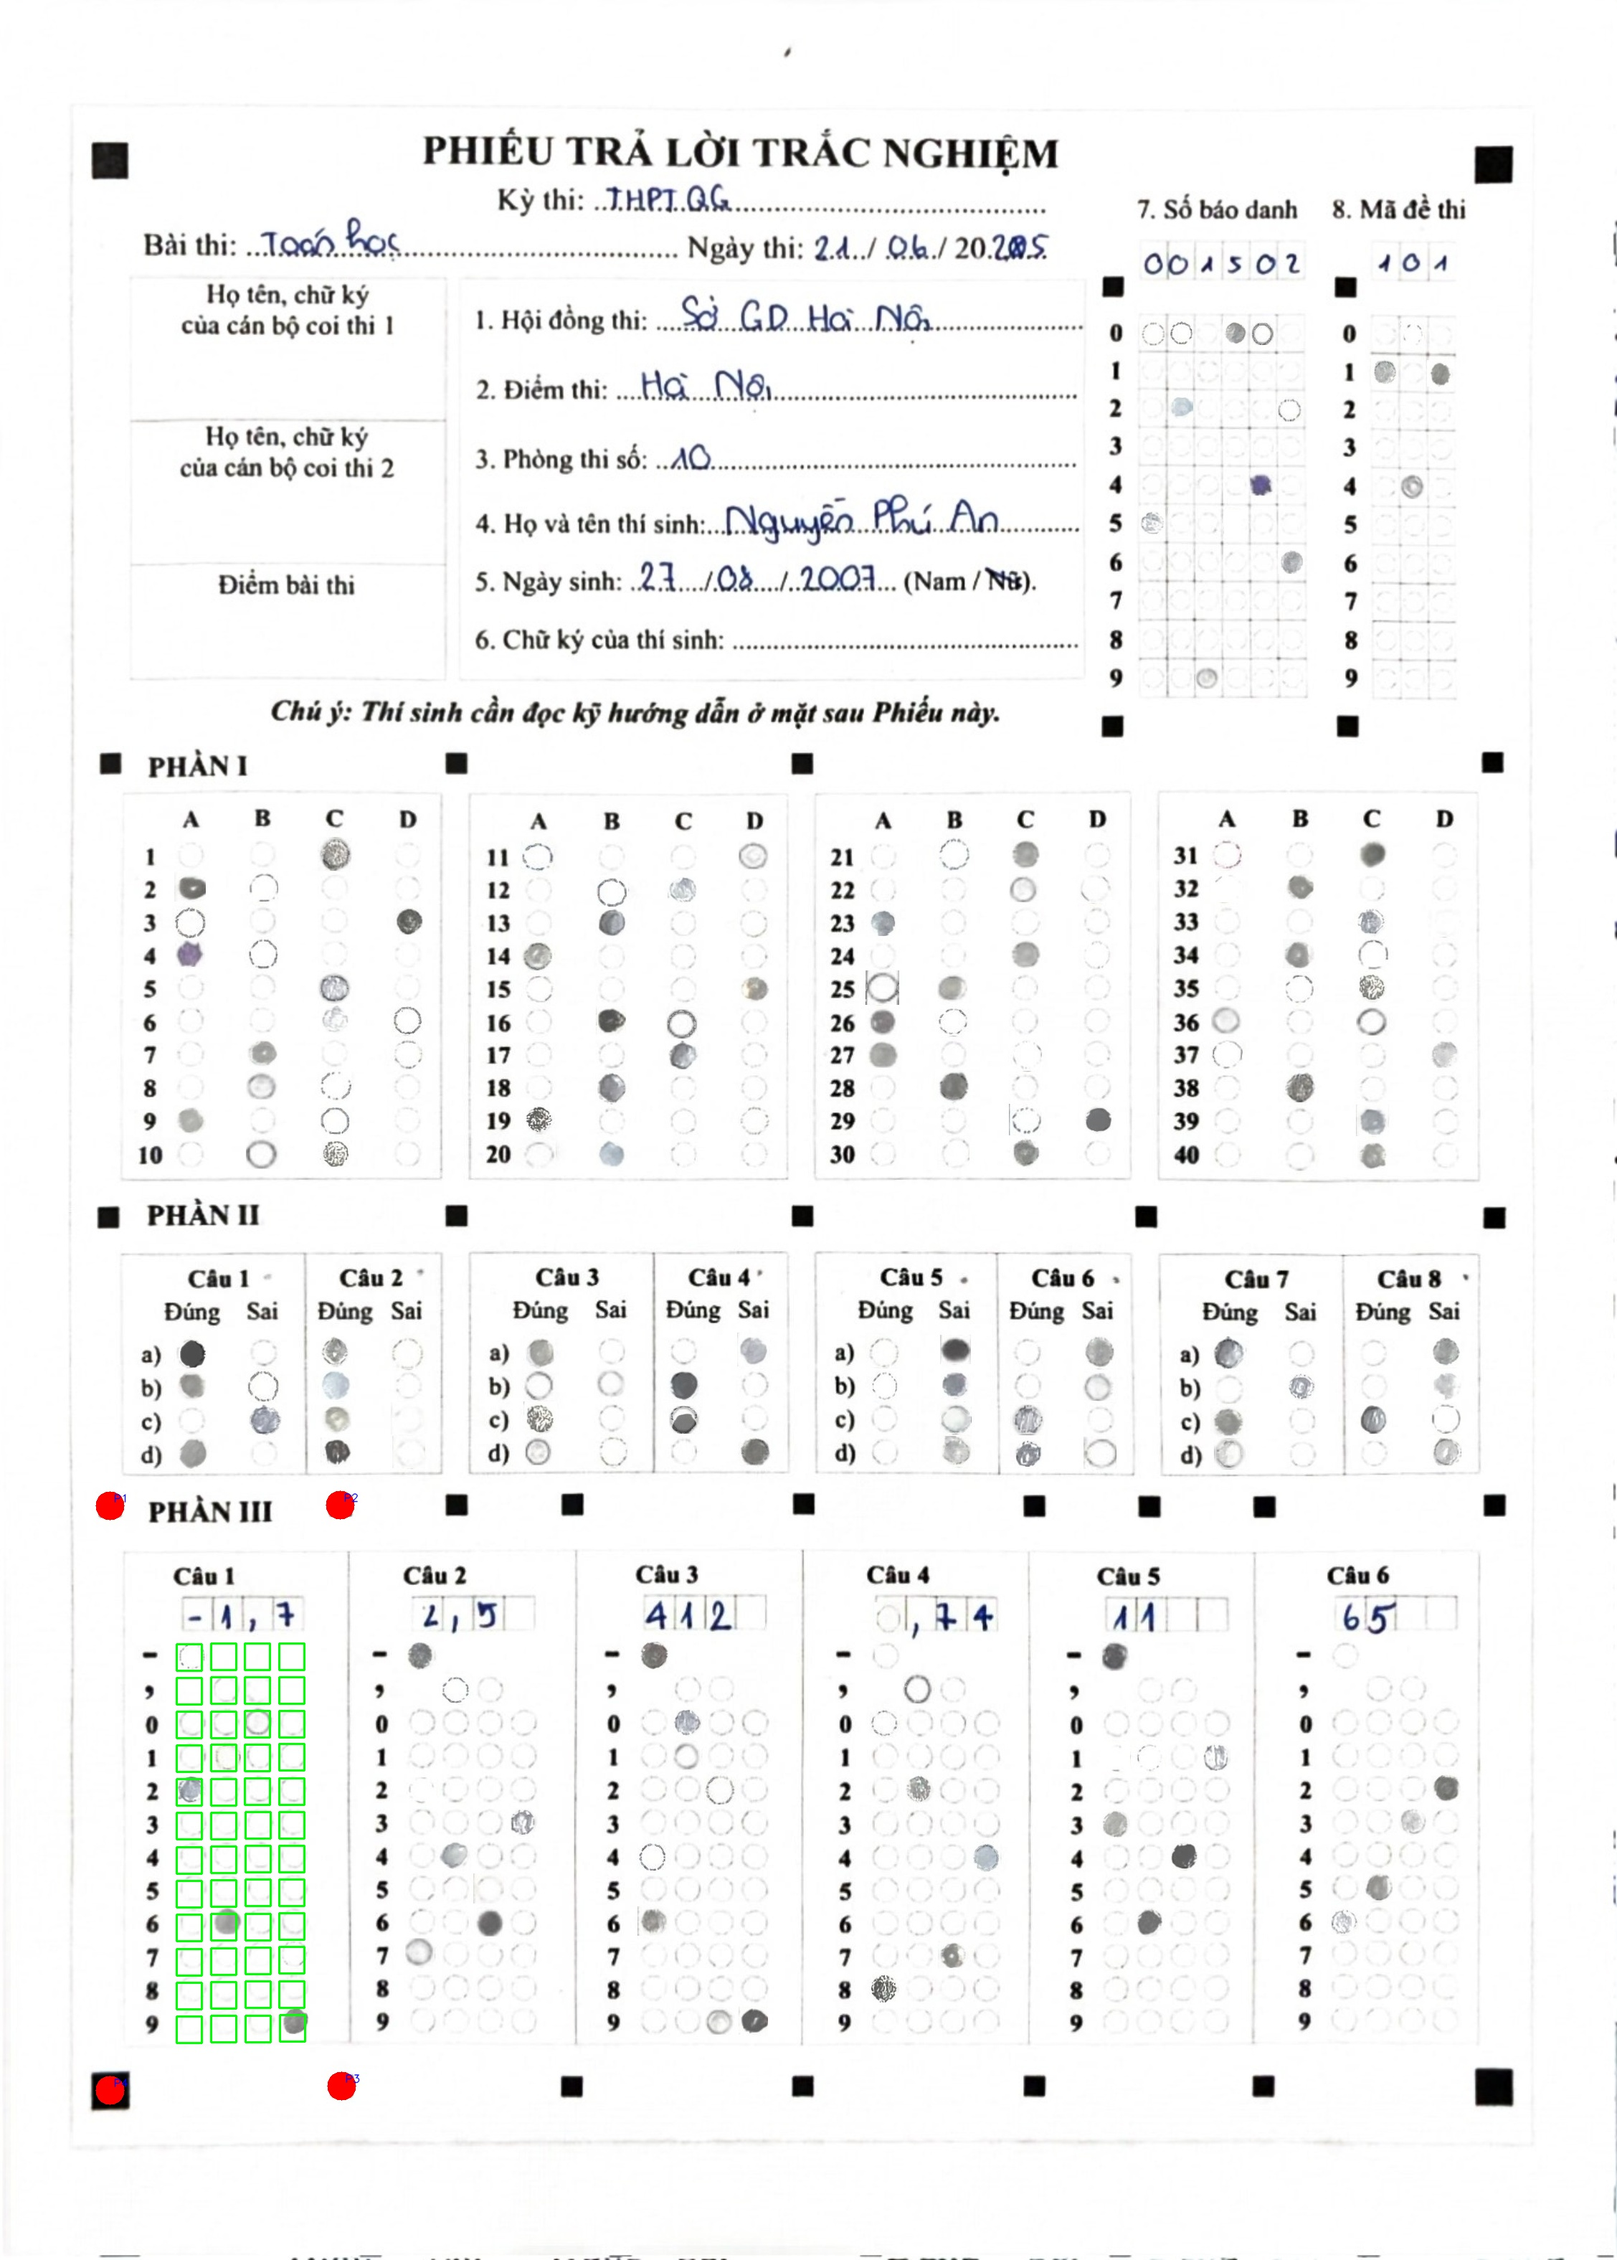
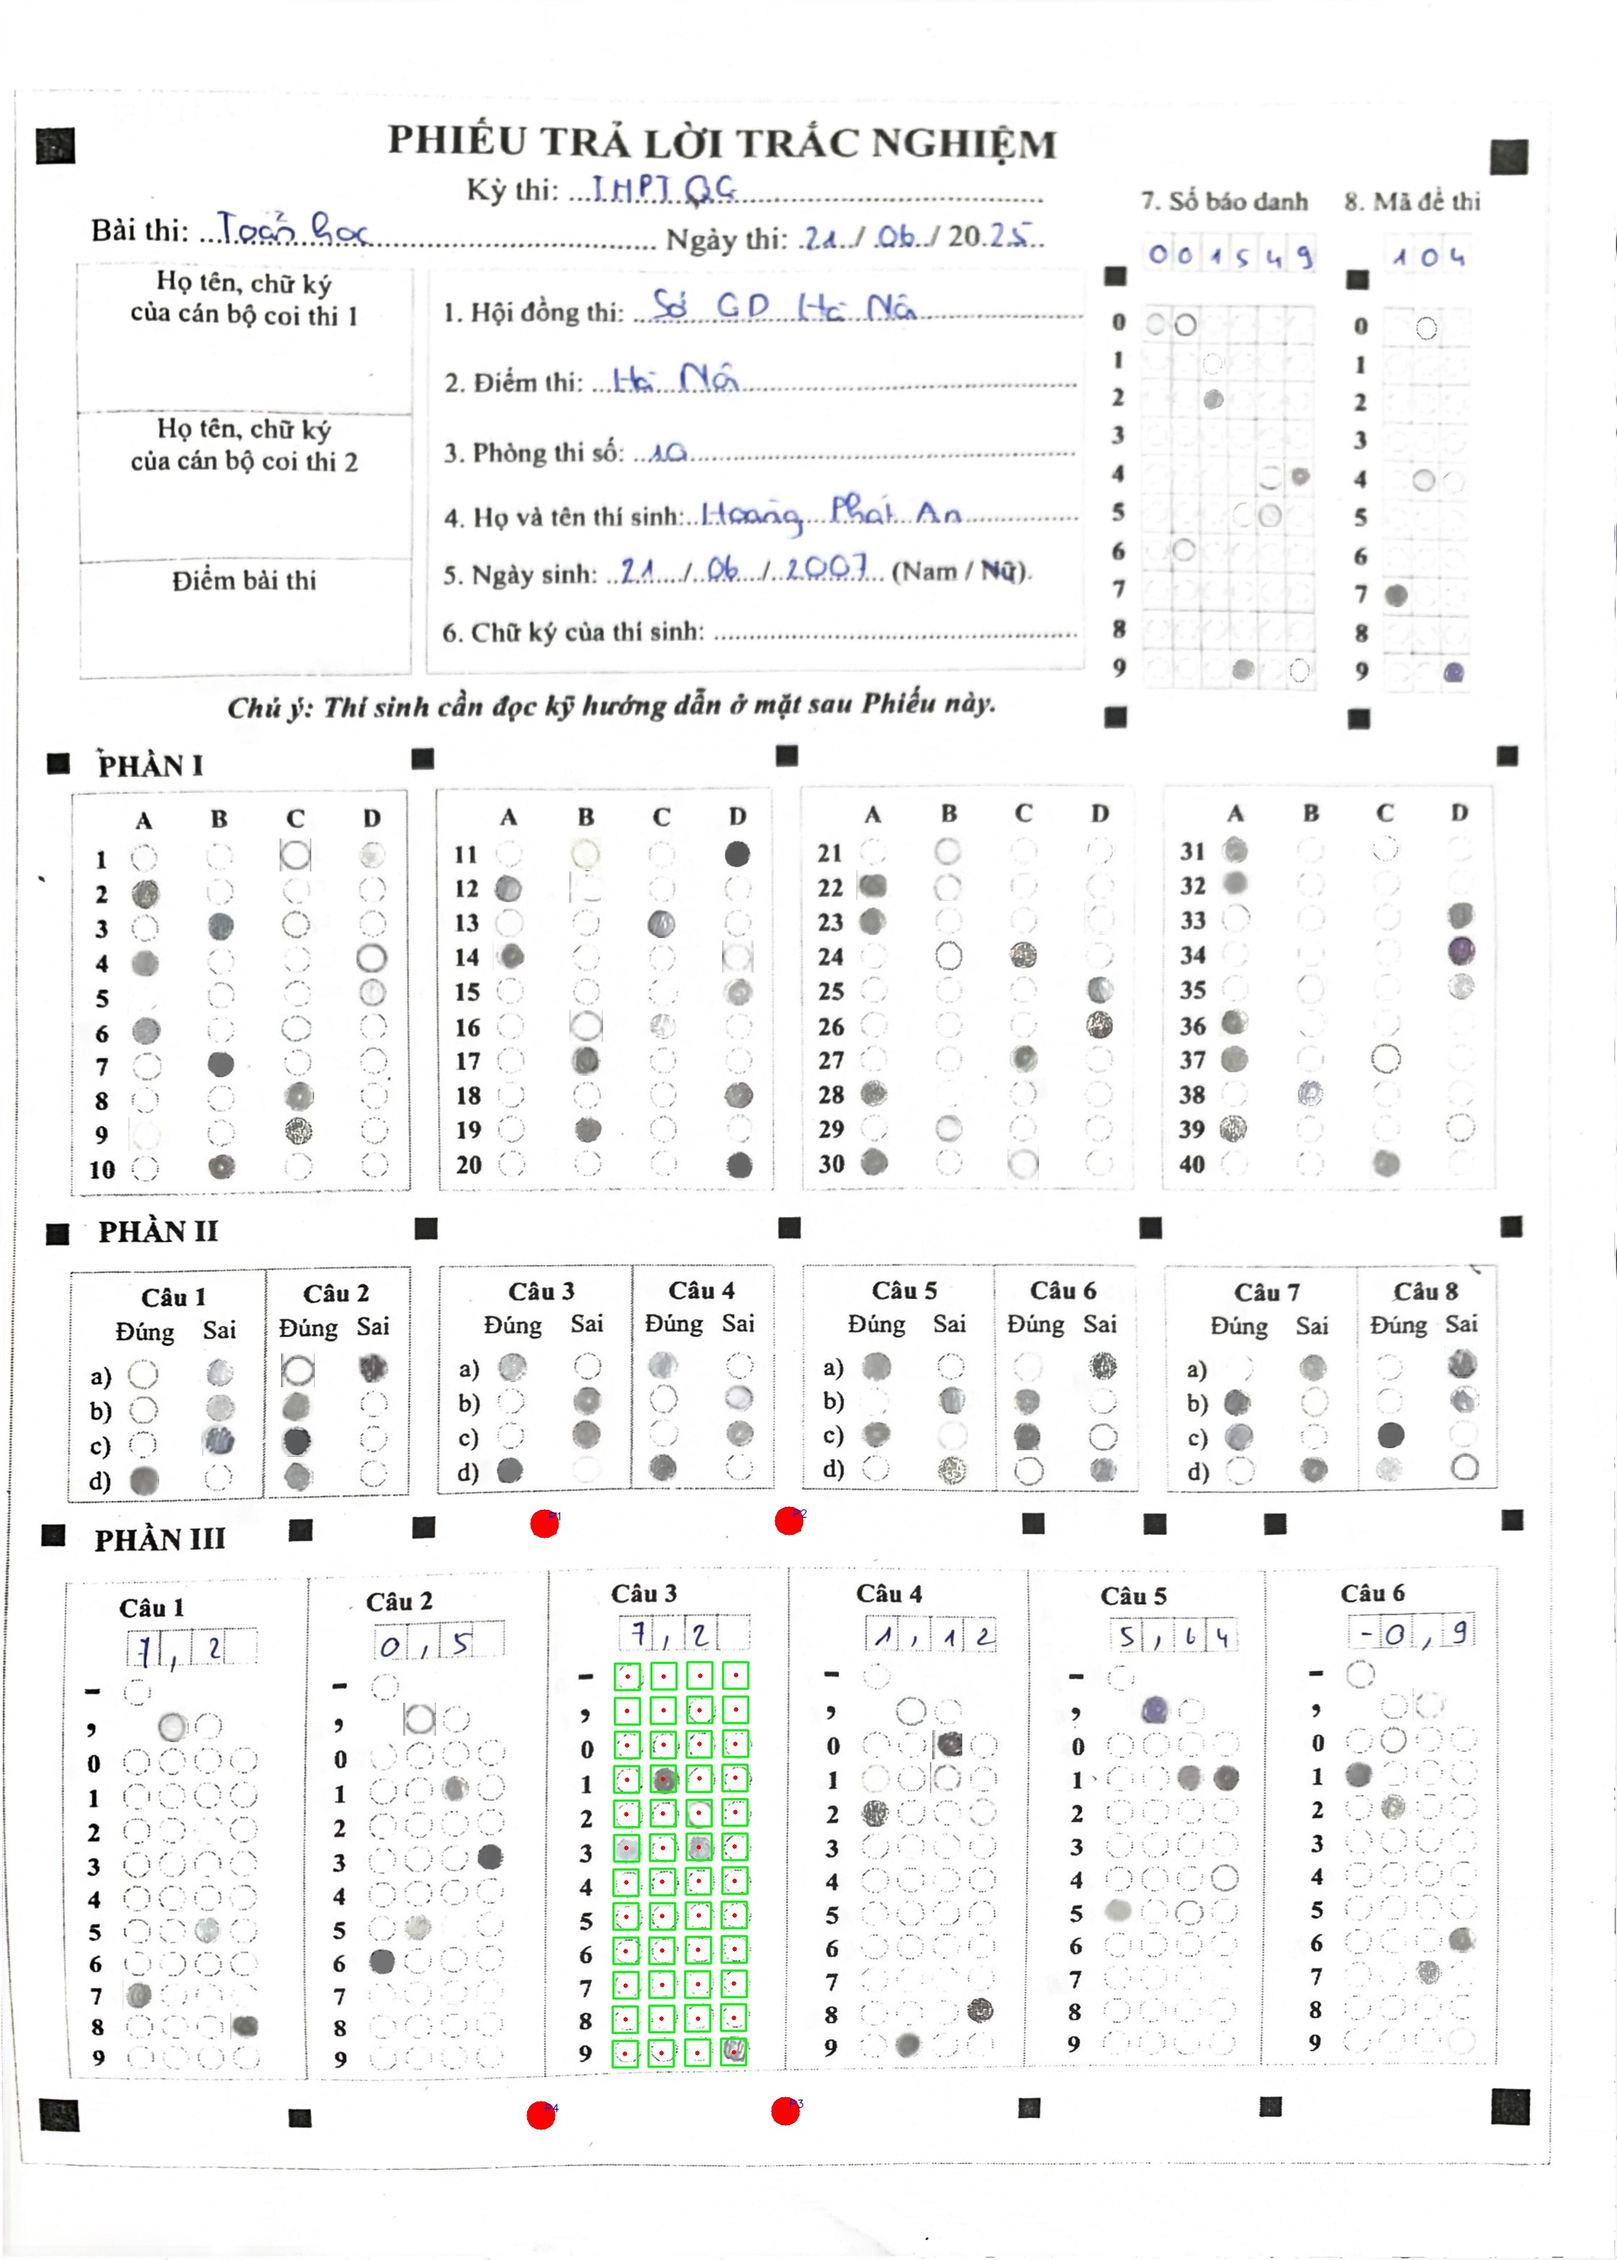
show minor things

diff --git a/multichoice_result_processing/warppersepctive.py b/multichoice_result_processing/warppersepctive.py
@@ -101,7 +101,9 @@ def warp_perspective_with_reversed_boxes(image, points_of_interest, yolo_boxes, 
 
 def main():
     # Load the image
-    image_path = 'D:\\4_2_AREAS\\testset1\\testset1\\images\\IMG_3976_iter_0.jpg'
+    #image_path = 'D:\\4_2_AREAS\\testset1\\testset1\\images\\IMG_3976_iter_0.jpg'
+    image_path ="IMG_3960_iter_129.jpg"
+    #image_path="IMG_3960_iter_15.jpg"
     image = cv2.imread(image_path)
     img_h, img_w, _ = image.shape
     image_size = (img_w, img_h)
@@ -118,16 +120,16 @@ def main():
     visualization.drawDots(image_path, flat_matrix)
 
     # Example: Select points of interest for warping
-    points_of_interest = yolo_to_pixel(section_grid[3][0], image_size)
+    points_of_interest = yolo_to_pixel(section_grid[3][2], image_size)
 
     # Generate YOLO grid boxes
-    yolo_boxes = generate_grid_coordinates((0.344, 0.262, 0.0158, 0.012), (12, 4), (0.132, 0.046))
+    yolo_boxes = generate_grid_coordinates((0.344, 0.261, 0.0158, 0.012), (12, 4), (0.132, 0.046))
 
     # Perform warping and reverse transformation
     warped_image, transformed_boxes_original = warp_perspective_with_reversed_boxes(
         image, points_of_interest, yolo_boxes, image_size
     )
-
+    # visualization.drawDots(image_path,grid_info.flattenMatrix(transformed_boxes_original),"draw_warp_centers")
     # Visualize the transformed points and boxes on the image
     visualize_results(image, points_of_interest, transformed_boxes_original)
 
@@ -150,6 +152,7 @@ def visualize_results(image, points_of_interest, transformed_boxes_original):
 
     # Draw transformed boxes (green rectangles)
     for x, y, w, h in transformed_boxes_original:
+        cv2.circle(image, (int(x), int(y)), radius=3, color=(0, 0, 255), thickness=-1)  # Red dots
         top_left = (int(x - w / 2), int(y - h / 2))
         bottom_right = (int(x + w / 2), int(y + h / 2))
         cv2.rectangle(image, top_left, bottom_right, (0, 255, 0), 2)  # Green boxes
